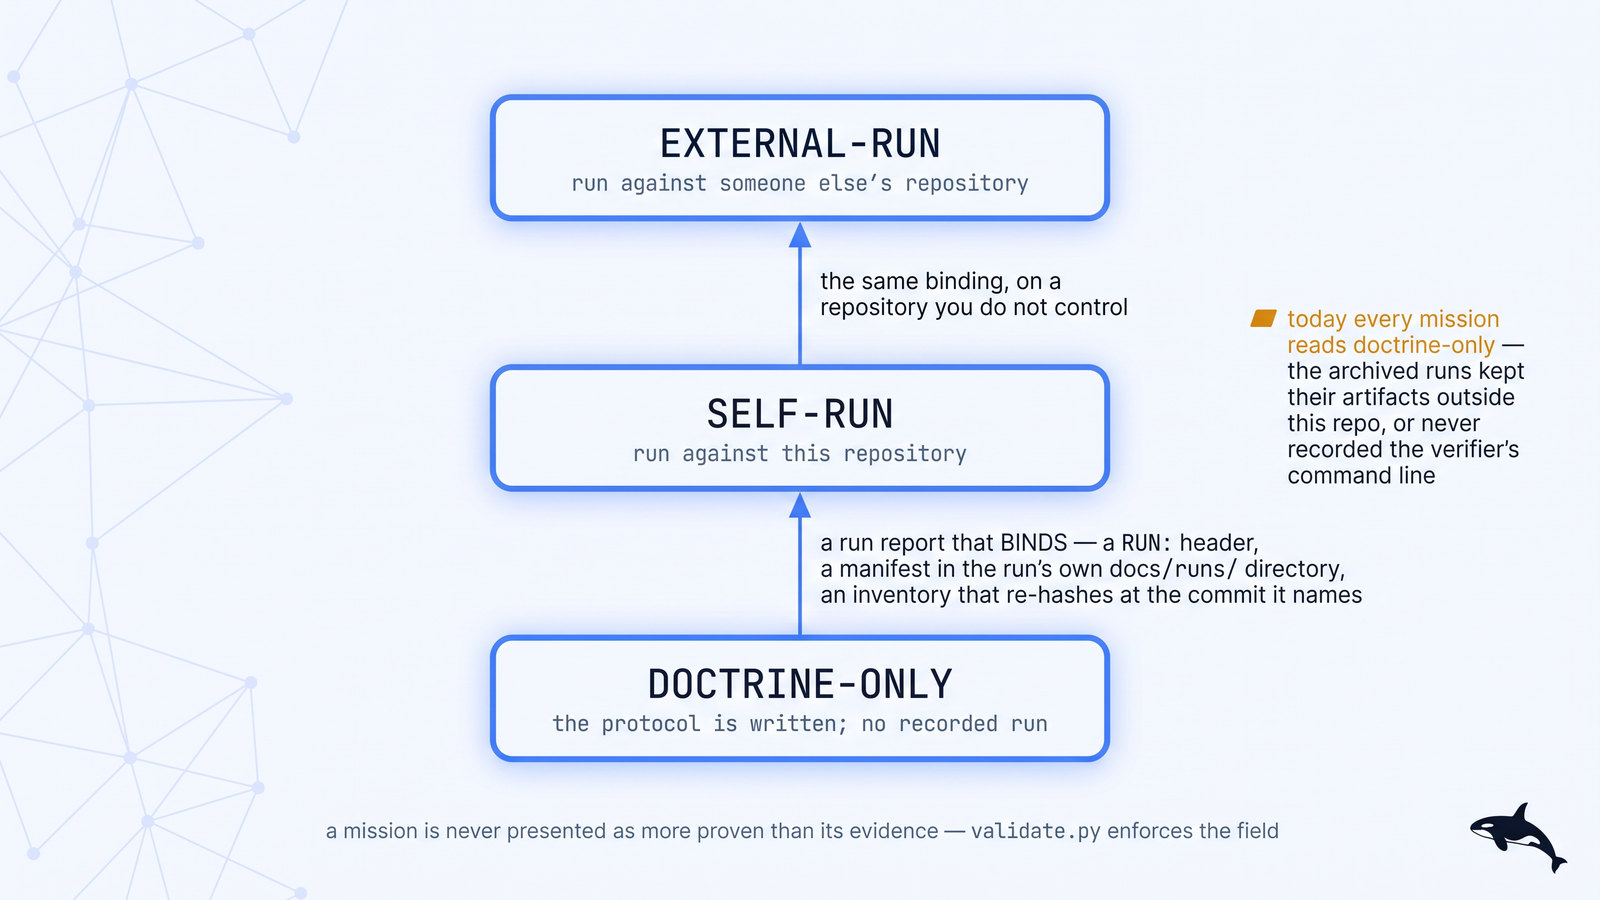
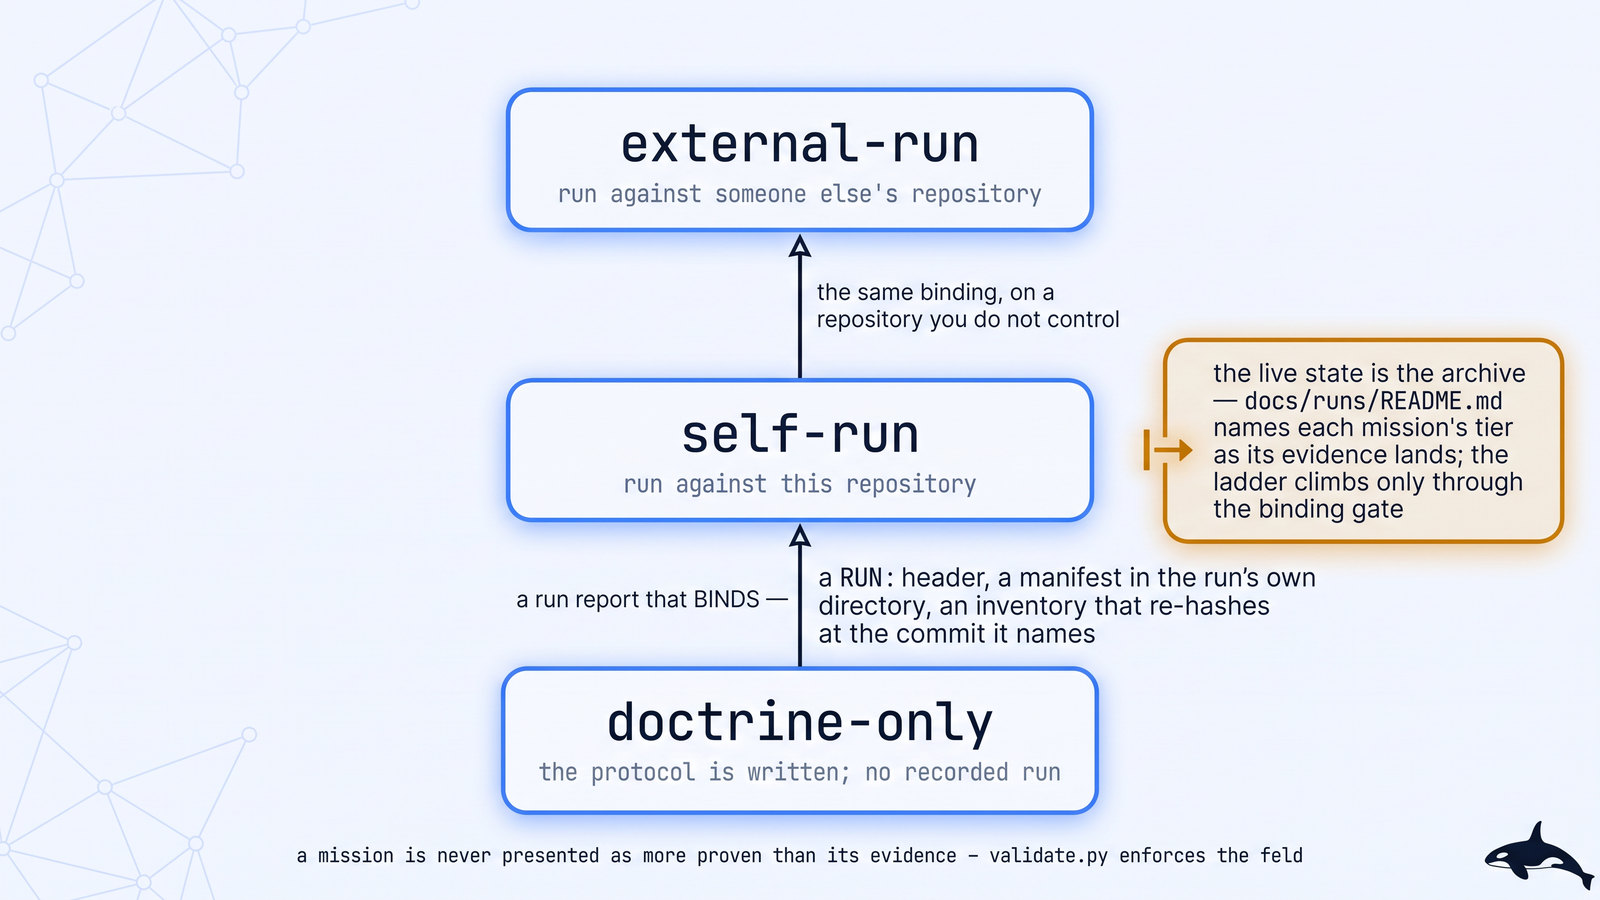
assets: regenerate proof-ladder diagrams with the timeless callout (#434) — the live state is the archive; alt texts + concepts caption made timeless to match

diff --git a/assets/diagrams/generator/wire_docs.py b/assets/diagrams/generator/wire_docs.py
@@ -24,7 +24,7 @@ NEW_ALT = {
  "gates-terminal": "A freeze decision as it reaches your terminal: two options with one recommended, reply a or b, no timeout default because the freeze is a one-way gate; beside it a taste gate that takes the recommendation and keeps working for your later veto, and the promotion PR the fleet opens and leaves for you to merge",
  "artifacts-map": "What a run leaves behind: a ledger with one row per unit; a docs/runs directory holding the report, a manifest per unit and a sha256 inventory; one PR per unit merged into BASE with reviewed_sha equal to head; and a promotion PR from BASE to default left to you",
  "mission-handoffs": "How missions hand off: map-it to ship-it with a frozen map and DAG; root-cause to ship-it or clean-sweep with a fix handoff brief; modernize-it and ship-it to migrate-it for stateful changes; deflake-it and prove-it to clean-sweep for deterministic and surfaced bugs; attest-it to ship-it for remediation; oncall-it to root-cause for telemetry; and a chain harden-it, prove-it, ship-it gated by each verified terminal",
- "proof-ladder": "The proof ladder: doctrine-only, then self-run, then external-run; advancing needs a run report that binds, with a RUN header, a manifest in the run's own directory and an inventory that re-hashes at the named commit; clean-sweep and prove-it read self-run, every other mission doctrine-only",
+ "proof-ladder": "The proof ladder: doctrine-only, then self-run, then external-run; advancing needs a run report that binds, with a RUN header, a manifest in the run's own directory and an inventory that re-hashes at the named commit; the live state is the archive at docs/runs/README.md, which names each mission's tier as its evidence lands",
  "verify-gate": "The completion gate: the coordinator sets the gate env, a Stop or TaskCompleted hook fires verify-gate.sh, verify.py re-derives scope and review and reads the negative control, replaying it in a throwaway worktree only when ORCA_EXECUTE_NC is set, then exit 0 allows or exit 2 blocks, fail-closed; the verdict is advisory inside the worker's own session and sound where CI, MCP-Task or an SDK subprocess owns the env",
  "mission-identity": "The six-point mission-identity test: unit of work, per-unit state machine, convergence proof, ordering and isolation, parking and failure semantics, and the oracle; audit findings, tracker issues and doc claims are one mission, clean-sweep, while a perf breach is a different proof and therefore a different mission, speed-it",
 }

diff --git a/assets/diagrams/generator/specs_new.py b/assets/diagrams/generator/specs_new.py
@@ -72,7 +72,8 @@ Middle rung: self-run, caption: run against this repository
 Arrow 2 label: the same binding, on a repository you do not control
 Top rung: external-run, caption: run against someone else's repository
 Right side, a note with an amber marker: the live state is the archive — docs/runs/README.md names each mission's tier as its evidence lands; the ladder climbs only through the binding gate
-Footer, small, centred: a mission is never presented as more proven than its evidence — validate.py enforces the field"""),
+Footer, small, centred: a mission is never presented as more proven than its evidence — validate.py enforces the field
+Render ONLY the text listed above — no extra captions, no repeated or paraphrased lines, no link hints under the note"""),
 
 n("verify-gate", """Content: the completion gate and its trust boundary.
 Top row, left to right, joined by arrows: a box: the coordinator sets the gate env (caption: ORCA_MANIFEST · contract source + digest · unit class) → a box: Stop / TaskCompleted hook fires verify-gate.sh → a box: verify.py re-derives (caption: scope from the frozen contract · review from GitHub · negative control read, or replayed in a throwaway worktree when ORCA_EXECUTE_NC is set) → two outcome boxes stacked: a green one: exit 0 — allow, and a red one: exit 2 — BLOCK, with feedback

diff --git a/docs/concepts.md b/docs/concepts.md
@@ -420,7 +420,7 @@ N+1's enumeration as findings to triage. A chain that stops early is a correct o
   <picture>
     <source media="(prefers-color-scheme: dark)" srcset="../assets/diagrams/proof-ladder.jpg">
     <source media="(prefers-color-scheme: light)" srcset="../assets/diagrams/proof-ladder-light.jpg">
-    <img src="../assets/diagrams/proof-ladder-light.jpg" alt="The proof ladder: doctrine-only, then self-run, then external-run; advancing needs a run report that binds, with a RUN header, a manifest in the run's own directory and an inventory that re-hashes at the named commit; clean-sweep and prove-it read self-run, every other mission doctrine-only" width="820">
+    <img src="../assets/diagrams/proof-ladder-light.jpg" alt="The proof ladder: doctrine-only, then self-run, then external-run; advancing needs a run report that binds, with a RUN header, a manifest in the run's own directory and an inventory that re-hashes at the named commit; the live state is the archive at docs/runs/README.md, which names each mission's tier as its evidence lands" width="820">
   </picture>
 </p>
 
@@ -447,8 +447,9 @@ verifier transcript checked against a committed key
 ([#281](https://github.com/ravidsrk/orca-fleet/issues/281)), on top of making the tier cost an
 actual run ([#286](https://github.com/ravidsrk/orca-fleet/issues/286)).
 
-Today `clean-sweep` and `prove-it` read `self-run` and every other mission reads `doctrine-only`: the first
-tiers earned under the binding gate, after the proven count went *down* as the mechanism got
+The live state is the [run archive](runs/): it names each mission's tier as its evidence
+lands, and says per run whether and why it binds. Tiers are earned only through the binding gate,
+even when that makes the proven count go *down* as the mechanism gets
 stronger — which is the mechanism working. The predecessor shipped twelve missions with two proven
 and paid for it, and a tier whose artifacts are gone is the same claim in better packaging. The
 [run archive](runs/) records every run that really happened and says, per run, whether and why it

diff --git a/README.md b/README.md
@@ -200,7 +200,7 @@ verified terminal state — see [`runtime/mission-chaining.md`](runtime/mission-
   <picture>
     <source media="(prefers-color-scheme: dark)" srcset="assets/diagrams/proof-ladder.jpg">
     <source media="(prefers-color-scheme: light)" srcset="assets/diagrams/proof-ladder-light.jpg">
-    <img src="assets/diagrams/proof-ladder-light.jpg" alt="The proof ladder: doctrine-only, then self-run, then external-run; advancing needs a run report that binds, with a RUN header, a manifest in the run's own directory and an inventory that re-hashes at the named commit; clean-sweep and prove-it read self-run, every other mission doctrine-only" width="900">
+    <img src="assets/diagrams/proof-ladder-light.jpg" alt="The proof ladder: doctrine-only, then self-run, then external-run; advancing needs a run report that binds, with a RUN header, a manifest in the run's own directory and an inventory that re-hashes at the named commit; the live state is the archive at docs/runs/README.md, which names each mission's tier as its evidence lands" width="900">
   </picture>
 </p>
 
